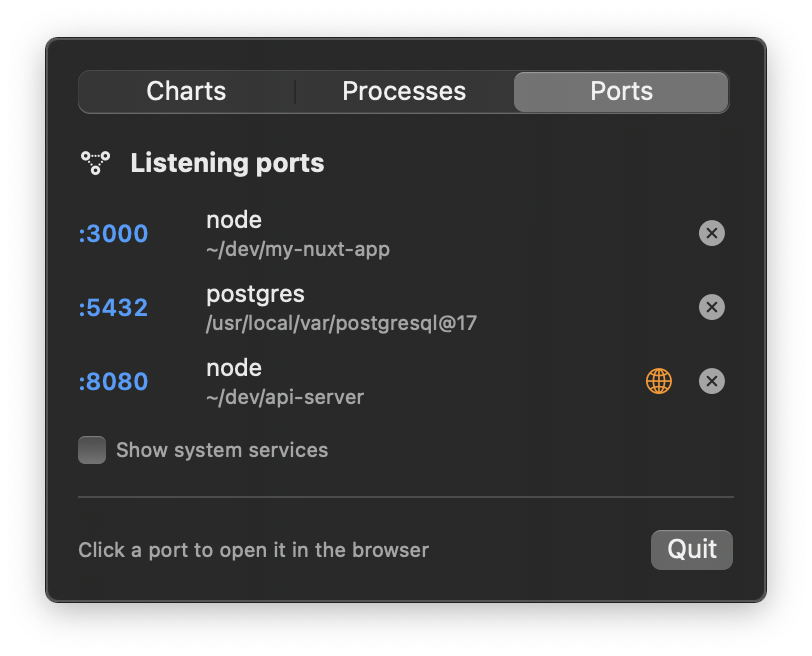
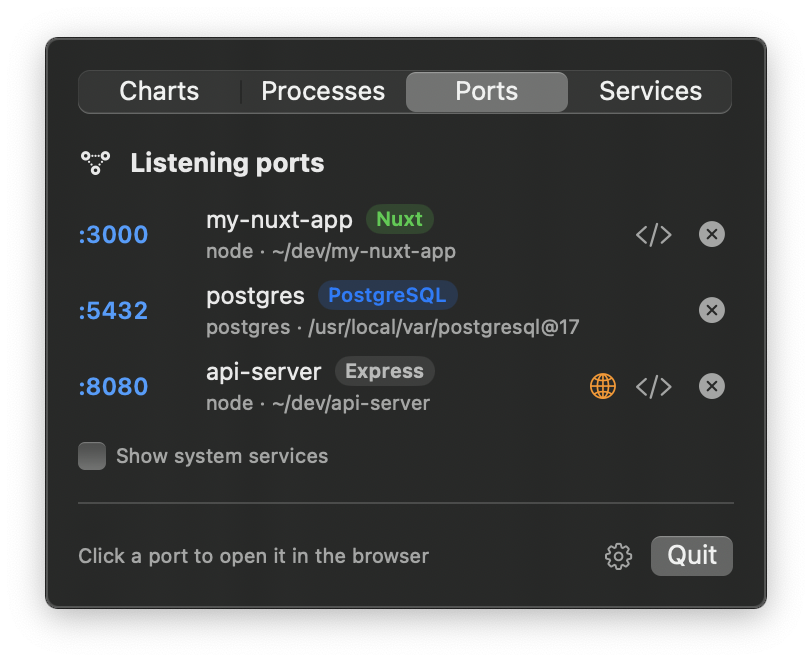
docs: update screenshots for new features

diff --git a/README.md b/README.md
@@ -21,9 +21,14 @@ Network, CPU, memory, temperatures, fans and battery at a glance, plus the proce
 
 <table>
   <tr>
-    <td align="center"><img src="docs/screenshots/charts.png" alt="Live charts" width="270"><br><sub><b>Charts</b>: live 60 s history</sub></td>
-    <td align="center"><img src="docs/screenshots/processes.png" alt="Top processes" width="270"><br><sub><b>Processes</b>: what's eating your CPU and RAM</sub></td>
-    <td align="center"><img src="docs/screenshots/ports.png" alt="Listening ports" width="270"><br><sub><b>Ports</b>: which project owns which port</sub></td>
+    <td align="center" valign="top"><img src="docs/screenshots/charts.png" alt="Live charts" width="270"><br><sub><b>Charts</b>: live 60 s history</sub></td>
+    <td align="center" valign="top"><img src="docs/screenshots/processes.png" alt="Top processes" width="270"><br><sub><b>Processes</b>: what's eating your CPU and RAM</sub></td>
+    <td align="center" valign="top"><img src="docs/screenshots/ports.png" alt="Listening ports" width="270"><br><sub><b>Ports</b>: which project owns which port</sub></td>
+  </tr>
+  <tr>
+    <td align="center" valign="top"><img src="docs/screenshots/services.png" alt="Homebrew services" width="270"><br><sub><b>Services</b>: start and stop <code>brew services</code></sub></td>
+    <td align="center" valign="top"><img src="docs/screenshots/settings.png" alt="Settings" width="270"><br><sub><b>Settings</b>: pick what you see</sub></td>
+    <td></td>
   </tr>
 </table>
 
